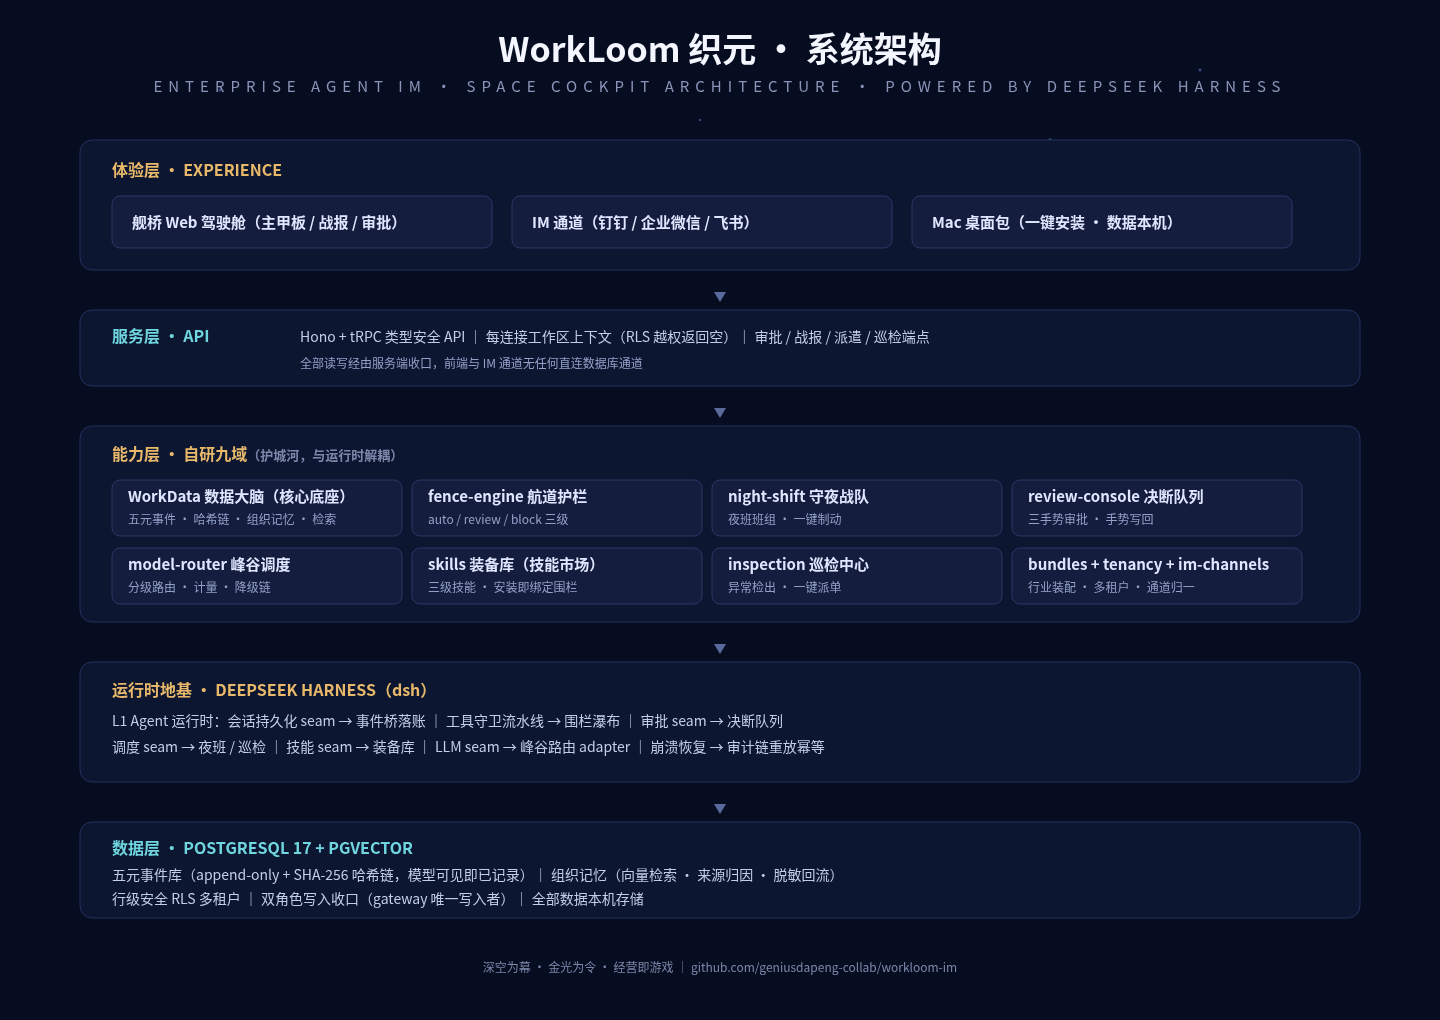
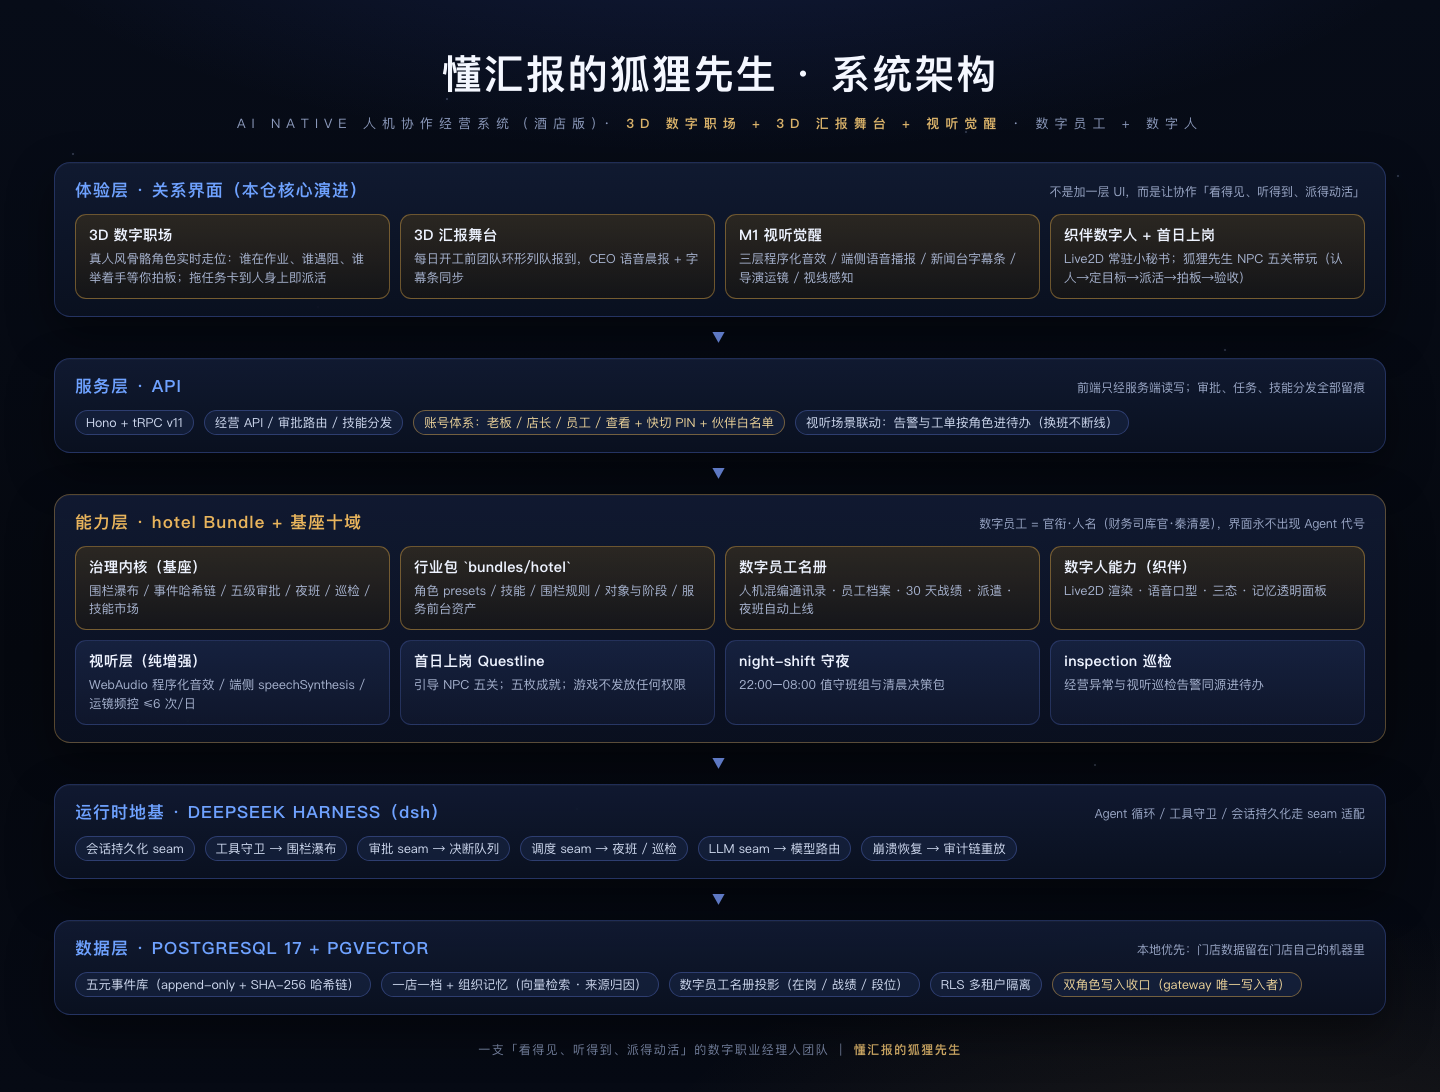
docs(fox): README 新增实机运行截图 + 数字员工名册/织伴数字人 + 架构与闭环图重制 [T-2026-0919-0017]
- 本仓 README 此前没有任何运行态配图：新增 18 张实拍（3D 数字职场、首日上岗五关、数字员工、织伴、治理页、三端）
- 补数字员工名册 + 数字人织伴口径（含织伴作为 M1 视听觉醒常驻成员的定位）
- 架构与闭环图重制（体验层关系界面 / hotel Bundle + 基座十域 / 视听层纯增强纪律）
- 质量实测：pnpm suite 459/459 全绿（服务层 414 + HTTP E2E 45）

diff --git a/docs/capabilities.auto.md b/docs/capabilities.auto.md
@@ -1,7 +1,7 @@
 # workloom-hotel · 能力导览（人类版）
 
 > WorkLoom 酒店智能经营系统 · AI 前厅/客房/收益一体化（酒店垂直版）
-> 本文件由 `node scripts/generate-capabilities.mjs` 从代码事实**自动生成**（2026-09-18），
+> 本文件由 `node scripts/generate-capabilities.mjs` 从代码事实**自动生成**（2026-09-19），
 > 请勿手改——能力变更后重跑生成器即可。Agent 版机器清单见 docs/capability-map.md。
 
 ## 🚀 5 分钟体验路径
@@ -18,7 +18,7 @@ pnpm install && pnpm preview:all
 
 无需任何真实后端或密钥：Mock 数据（种子 + 离线确定性模型 + 演示直登）已固化，详见 mock/README.md。
 
-## 📦 能力总览（27 项）
+## 📦 能力总览（30 项）
 
 ### 🖥 三端应用（开箱即看）
 
@@ -32,7 +32,15 @@ pnpm install && pnpm preview:all
 
 | 能力 | 一句话 | 怎么体验 |
 |---|---|---|
-| **bundles/hotel/** | 围栏/技能/员工/对象/管线一键装配 | 见 bundles/hotel/ 目录 |
+| **bundles/hotel/** | 围栏/技能/员工/对象/管线一键装配（11 个数字员工岗位 · 26 个技能） | 见 bundles/hotel/ 目录 |
+
+### 🧑💼 数字员工与数字人（本仓自带）
+
+| 能力 | 一句话 | 怎么体验 |
+|---|---|---|
+| **数字员工中心（`/agents`）** | 人机混编通讯录：员工档案 / 围栏对账 / 30 天战绩 / 派遣 / 夜班自动上线（本包 11 个岗位） | `pnpm preview:all` → http://localhost:3000/agents |
+| **织伴数字人（Live2D 常驻浮层）** | 与 3D 职场/舞台、环境音效、导演运镜共同构成「看得见、听得到」的关系界面；三态 + 记忆透明面板 | 打开任一 PC 页面右下角；`pnpm app` |
+| **语音与口型引擎** | 端侧 speechSynthesis + 中文逐字开口度时间线；7+1 角色固定音色；字幕条等价降级 | docs/tech-design-m1.md |
 
 ### 🖐 操作电脑能力（本仓自带 · 可装生产工作站）
 
